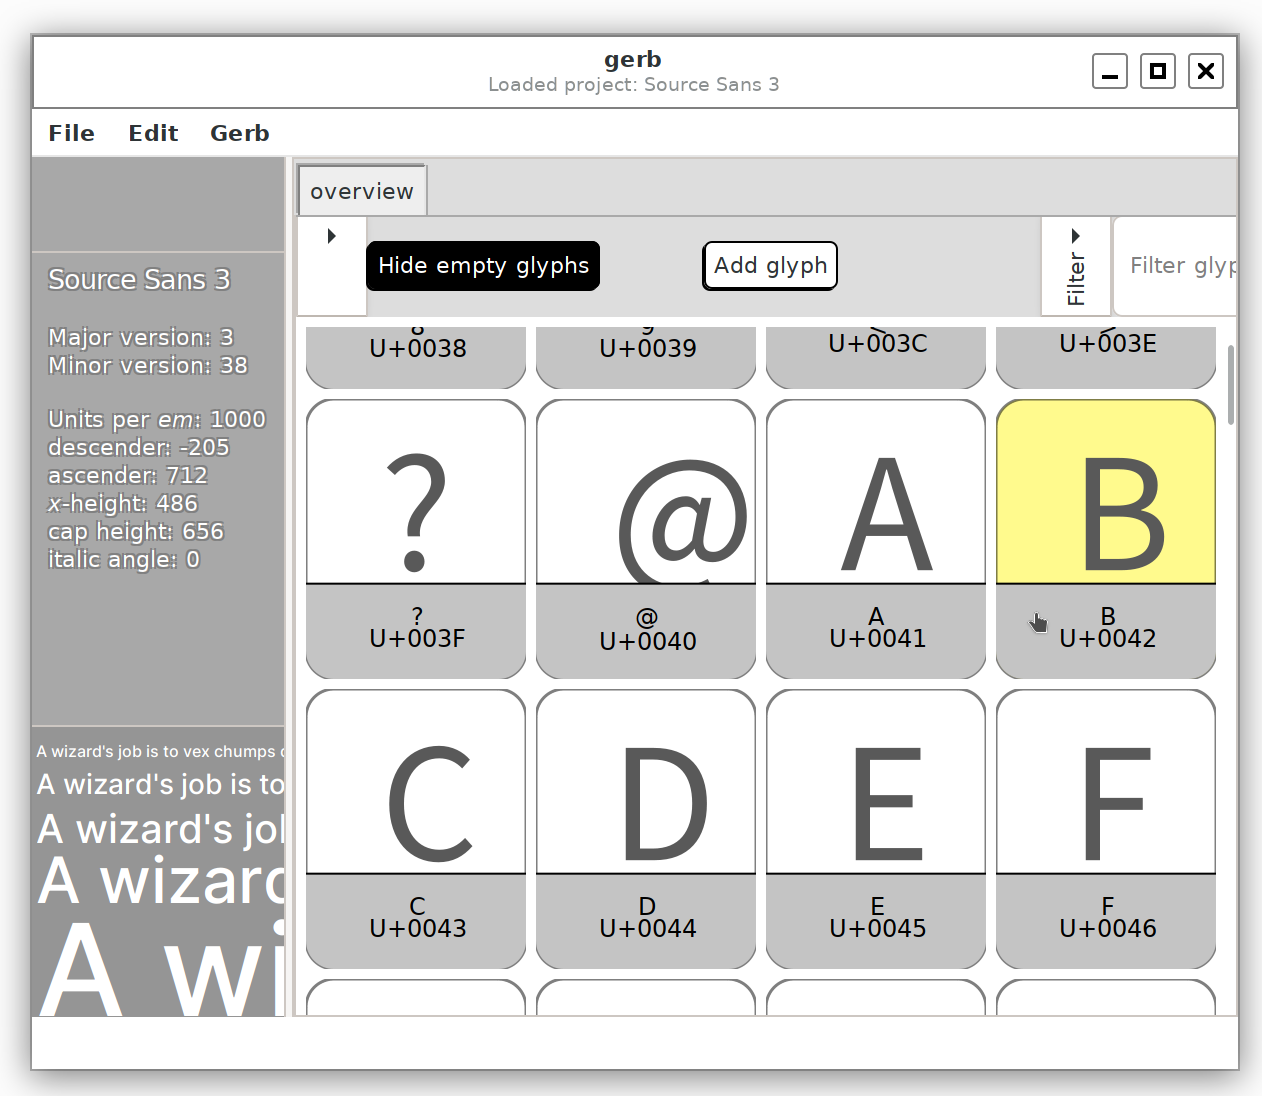
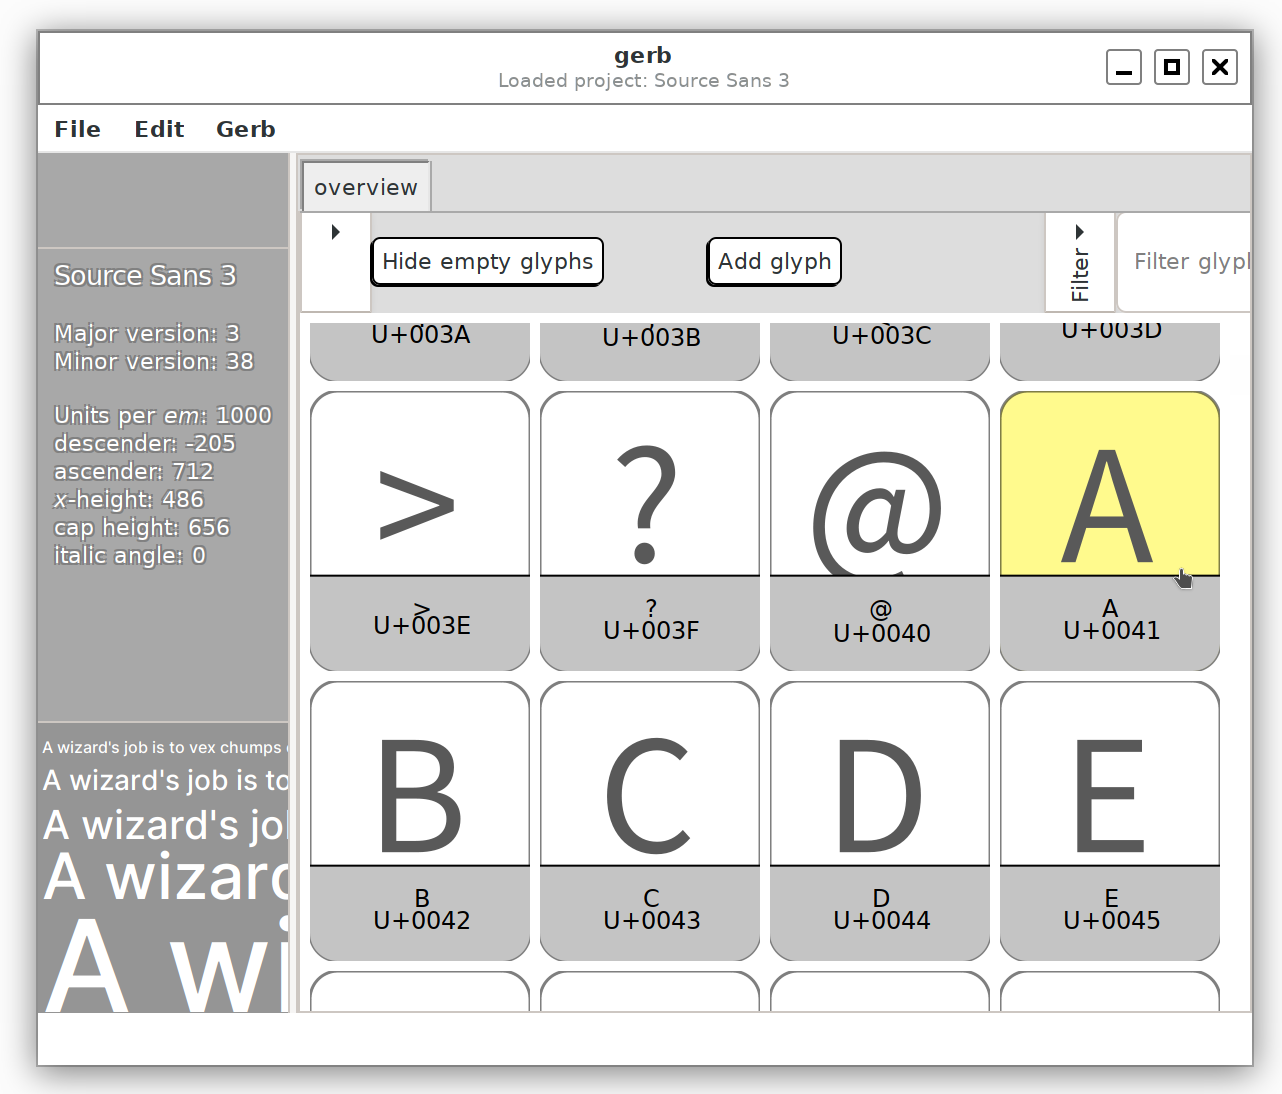
views/glyphs_overview.rs: center glyph preview in its box

Changed region(s): [[0.0, 0.0, 0.9889, 0.9945]]

diff --git a/src/views/glyphs_overview.rs b/src/views/glyphs_overview.rs
@@ -336,7 +336,7 @@ impl ObjectImpl for GlyphBox {
             .build();
         drawing_area.connect_draw(clone!(@weak obj => @default-return Inhibit(false), move |_drar: &gtk::DrawingArea, cr: &Context| {
             cr.select_font_face("Sans", FontSlant::Normal, FontWeight::Normal);
-            let is_focused:bool = obj.imp().focused.get();
+            let is_focused: bool = obj.imp().focused.get();
             //cr.scale(500f64, 500f64);
             //let (r, g, b) = crate::utils::hex_color_to_rgb("#c4c4c4").unwrap();
             //cr.set_source_rgb(r, g, b);
@@ -352,6 +352,7 @@ impl ObjectImpl for GlyphBox {
             };
             cr.set_line_width(1.5);
             let (point, (width, height)) = crate::utils::draw_round_rectangle(cr, (x, y), (GLYPH_BOX_WIDTH, GLYPH_BOX_HEIGHT), 1.0, 1.5);
+            let glyph_width = glyph.width.unwrap_or(1000) as f64 * (width * 0.8) / 1000.;
             if is_focused {
                 cr.set_source_rgb(1., 250./255., 141./255.);
             } else {
@@ -363,7 +364,6 @@ impl ObjectImpl for GlyphBox {
             cr.clip();
             cr.new_path();
             cr.set_source_rgba(0., 0., 0., 0.4);
-            cr.move_to(x+width/2., point.1+ 2.* (height / 3.));
             cr.set_font_size(62.);
             let sextents = cr
                 .text_extents(&label)
@@ -374,7 +374,7 @@ impl ObjectImpl for GlyphBox {
             } else {
                 let options = GlyphDrawingOptions {
                     scale: (width * 0.8) / 1000.,
-                    origin: (point.0 + width / 3., 0.),
+                    origin: ((width - glyph_width) / 2., 0.),
                     outline: (0., 0., 0., 0.),
                     inner_fill: Some((0.35, 0.35, 0.35, 1.)),
                     highlight: None,
